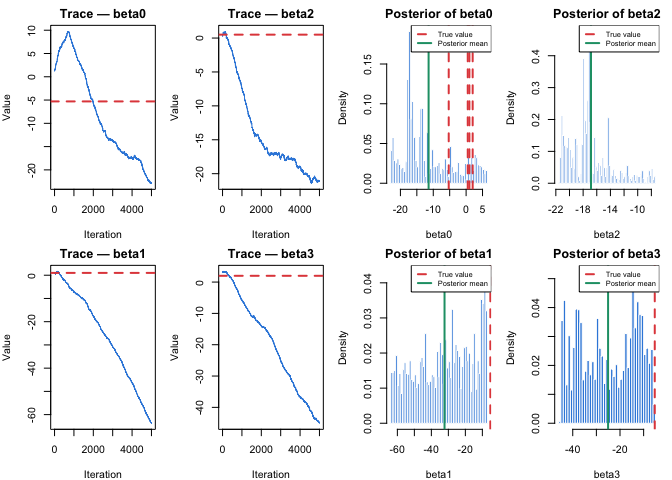
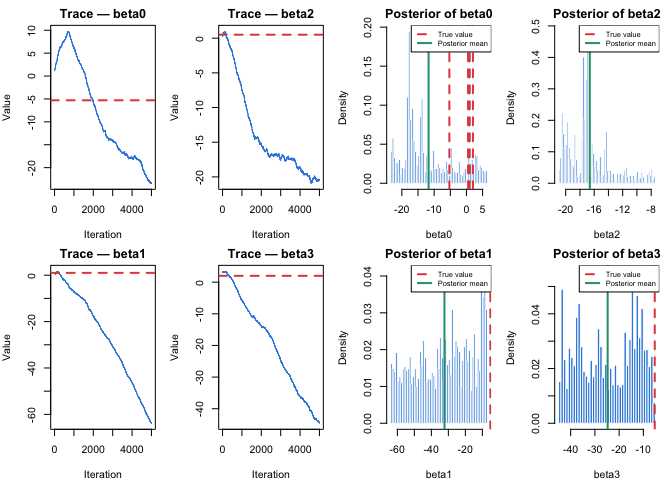
plot interp

diff --git a/wage_lab.md b/wage_lab.md
@@ -174,13 +174,13 @@ $$
   production and immigrates into more profitable ones — “the high price
   produces an excessive immigration, and the low price an excessive
   emigration” (Marx, 1849). When $sin\frac{2t\pi}{P}$ \> 0, capital
-  flight displaces workers, pushing labor surplus above the trend (Phase
-  3 — overproduction). When $sin\frac{2t\pi}{P}$ \< 0, capital
+  flight displaces workers, pushing labor surplus above the trend
+  (Overproduction Phase). When $sin\frac{2t\pi}{P}$ \< 0, capital
   immigration into new sectors temporarily absorbs workers, pulling
-  labor surplus below the trend (Phase 2 — recovery).The exponential
-  term $A e^{{-\delta_l}t}$ introduces amplitude modulation over time.
-  Rather than producing strictly shrinking cycles, the visualization
-  reveals heterogeneous cycle amplitudes — consistent with Marx’s
+  labor surplus below the trend (Recovery Phase).The exponential term
+  $A e^{{-\delta_l}t}$ introduces amplitude modulation over time. Rather
+  than producing strictly shrinking cycles, the visualization reveals
+  heterogeneous cycle amplitudes — consistent with Marx’s
   characterization of capital movement as anarchic rather than regular.
   No two cycles are identical, reflecting the unpredictable timing and
   magnitude of capital reallocation across sectors. The noise term
@@ -259,9 +259,9 @@ T_pilot <- 200
 K_l <- 1
 r_l <- .05
 t0_l  <- 50
-A <- .2
-P <- 5
-delta_l <- .43
+A <- .5
+P <- 20
+delta_l <- .1
 
 # wage_gap parameters
 K_w <- 1
@@ -302,20 +302,20 @@ labor_surplus <- func_labor_surplus(N_pilot, T_pilot)
 head(labor_surplus)
 ```
 
-    ##            [,1]       [,2]       [,3]       [,4]       [,5]       [,6]
-    ## [1,] 0.19196322 0.24714894 0.20170161 0.22465298 0.21029840 0.18325676
-    ## [2,] 0.12831483 0.15916664 0.10954535 0.13237144 0.11975818 0.11211928
-    ## [3,] 0.08587992 0.04940285 0.04201079 0.05403914 0.07180980 0.05434615
-    ## [4,] 0.05847272 0.06792644 0.05648572 0.02674120 0.08012128 0.05441905
-    ## [5,] 0.09793522 0.08706267 0.10876338 0.11115717 0.10087496 0.04436261
-    ## [6,] 0.14846486 0.10463862 0.08115263 0.10994888 0.11704565 0.13497503
-    ##            [,7]       [,8]       [,9]      [,10]
-    ## [1,] 0.21556973 0.18145037 0.19739227 0.17738545
-    ## [2,] 0.11776818 0.11961233 0.14604865 0.11982701
-    ## [3,] 0.07173624 0.06900272 0.04562580 0.05355927
-    ## [4,] 0.04210396 0.04842933 0.04518526 0.08219751
-    ## [5,] 0.10795426 0.09990176 0.06114187 0.12709855
-    ## [6,] 0.13609679 0.14006248 0.10997459 0.12055319
+    ##           [,1]      [,2]      [,3]      [,4]      [,5]      [,6]      [,7]
+    ## [1,] 0.2080341 0.2632198 0.2177725 0.2407239 0.2263693 0.1993276 0.2316406
+    ## [2,] 0.3191881 0.3500399 0.3004186 0.3232447 0.3106314 0.3029925 0.3086414
+    ## [3,] 0.4179072 0.3814301 0.3740381 0.3860664 0.4038371 0.3863734 0.4037635
+    ## [4,] 0.4112893 0.4207430 0.4093023 0.3795577 0.4329378 0.4072356 0.3949205
+    ## [5,] 0.4012005 0.3903280 0.4120287 0.4144225 0.4041403 0.3476279 0.4112196
+    ## [6,] 0.3950272 0.3512010 0.3277150 0.3565112 0.3636080 0.3815374 0.3826592
+    ##           [,8]      [,9]     [,10]
+    ## [1,] 0.1975213 0.2134632 0.1934563
+    ## [2,] 0.3104856 0.3369219 0.3107003
+    ## [3,] 0.4010300 0.3776531 0.3855866
+    ## [4,] 0.4012459 0.3980018 0.4350140
+    ## [5,] 0.4031671 0.3644072 0.4303639
+    ## [6,] 0.3866248 0.3565370 0.3671156
 
 ``` r
 func_wage_gap <- function(N, T, lab){
@@ -338,20 +338,20 @@ wage_gap <- func_wage_gap(N_pilot, T_pilot, labor_surplus)
 head(wage_gap)
 ```
 
-    ##              [,1]        [,2]         [,3]         [,4]         [,5]
-    ## [1,] 0.1455423289 0.145542329 0.1455423289 0.1455423289 0.1455423289
-    ## [2,] 0.0006704215 0.000135376 0.0005055557 0.0002599045 0.0003940441
-    ## [3,] 0.0046465507 0.001933961 0.0079072025 0.0041413392 0.0059221964
-    ## [4,] 0.0165507000 0.044647597 0.0543564714 0.0394263593 0.0243475722
-    ## [5,] 0.0370404840 0.028805036 0.0390395722 0.0842941217 0.0207684077
-    ## [6,] 0.0138673882 0.018511248 0.0103885169 0.0097446576 0.0128228115
-    ##             [,6]         [,7]         [,8]         [,9]       [,10]
-    ## [1,] 0.145542329 0.1455423289 0.1455423289 0.1455423289 0.145542329
-    ## [2,] 0.000862816 0.0003382043 0.0009091775 0.0005728145 0.001022810
-    ## [3,] 0.007352031 0.0062656155 0.0059467181 0.0028082360 0.005910659
-    ## [4,] 0.039102096 0.0243965410 0.0262861289 0.0493821876 0.039938387
-    ## [5,] 0.041228463 0.0569009758 0.0482545875 0.0525208464 0.019638459
-    ## [6,] 0.056370350 0.0106155291 0.0131597191 0.0365855432 0.006358015
+    ##              [,1]         [,2]         [,3]         [,4]         [,5]
+    ## [1,] 1.455423e-01 1.455423e-01 1.455423e-01 1.455423e-01 1.455423e-01
+    ## [2,] 4.207760e-04 8.494896e-05 3.172819e-04 1.630987e-04 2.472881e-04
+    ## [3,] 2.025963e-05 8.409528e-06 3.458935e-05 1.804771e-05 2.585462e-05
+    ## [4,] 1.543584e-06 4.286465e-06 5.272155e-06 3.764619e-06 2.288897e-06
+    ## [5,] 2.351501e-06 1.813171e-06 2.483568e-06 5.627511e-06 1.296566e-06
+    ## [6,] 3.908258e-06 5.241719e-06 2.917515e-06 2.734915e-06 3.610041e-06
+    ##              [,6]         [,7]         [,8]         [,9]        [,10]
+    ## [1,] 1.455423e-01 1.455423e-01 1.455423e-01 1.455423e-01 1.455423e-01
+    ## [2,] 5.415672e-04 2.122406e-04 5.706770e-04 3.595019e-04 6.420297e-04
+    ## [3,] 3.214289e-05 2.736330e-05 2.596231e-05 1.222184e-05 2.580395e-05
+    ## [4,] 3.732397e-06 2.293615e-06 2.476058e-06 4.764628e-06 3.815544e-06
+    ## [5,] 2.628805e-06 3.688403e-06 3.099517e-06 3.388739e-06 1.224611e-06
+    ## [6,] 1.660227e-05 2.981953e-06 3.706156e-06 1.055401e-05 1.778347e-06
 
 The logistic formula of the wage gap is deterministic given the growth
 rate $r_w$ and the time $t$. At $t=1$, $r_w = r_{base}$ because there is
@@ -421,18 +421,18 @@ head(CP_l)
 
     ##           [,1]      [,2]      [,3]      [,4]      [,5]      [,6]      [,7]
     ## [1,] 0.0000000 0.0000000 0.0000000 0.0000000 0.0000000 0.0000000 0.0000000
-    ## [2,] 0.1248738 0.1607726 0.1312087 0.1461388 0.1368010 0.1192102 0.1402301
-    ## [3,] 0.1647015 0.2081234 0.1566127 0.1811734 0.1668941 0.1504819 0.1678302
-    ## [4,] 0.1630055 0.1675232 0.1292064 0.1530079 0.1552791 0.1332425 0.1558402
-    ## [5,] 0.1440736 0.1531621 0.1207944 0.1169284 0.1531301 0.1220756 0.1287644
-    ## [6,] 0.1574289 0.1562684 0.1493294 0.1483718 0.1652326 0.1082695 0.1539877
+    ## [2,] 0.1353281 0.1712269 0.1416630 0.1565931 0.1472553 0.1296644 0.1506843
+    ## [3,] 0.2956669 0.3390888 0.2875781 0.3121388 0.2978595 0.2814473 0.2987956
+    ## [4,] 0.4641864 0.4687041 0.4303873 0.4541889 0.4564600 0.4344235 0.4570211
+    ## [5,] 0.5695049 0.5785934 0.5462257 0.5423597 0.5785614 0.5475069 0.5541957
+    ## [6,] 0.6314527 0.6302922 0.6233532 0.6223956 0.6392564 0.5822933 0.6280115
     ##           [,8]      [,9]     [,10]
     ## [1,] 0.0000000 0.0000000 0.0000000
-    ## [2,] 0.1180351 0.1284055 0.1153908
-    ## [3,] 0.1545918 0.1785349 0.1530114
-    ## [4,] 0.1454503 0.1458186 0.1343761
-    ## [5,] 0.1261205 0.1242497 0.1408831
-    ## [6,] 0.1470295 0.1205989 0.1743245
+    ## [2,] 0.1284894 0.1388597 0.1258451
+    ## [3,] 0.2855572 0.3095003 0.2839767
+    ## [4,] 0.4466312 0.4469995 0.4355570
+    ## [5,] 0.5515518 0.5496810 0.5663144
+    ## [6,] 0.6210533 0.5946227 0.6483483
 
 ``` r
 head(CP_w)
@@ -441,17 +441,17 @@ head(CP_w)
     ##            [,1]       [,2]       [,3]       [,4]       [,5]       [,6]
     ## [1,] 0.00000000 0.00000000 0.00000000 0.00000000 0.00000000 0.00000000
     ## [2,] 0.09467661 0.09467661 0.09467661 0.09467661 0.09467661 0.09467661
-    ## [3,] 0.06202411 0.06167606 0.06191686 0.06175707 0.06184432 0.06214926
-    ## [4,] 0.04336987 0.04137890 0.04542119 0.04286751 0.04408274 0.04521122
-    ## [5,] 0.03897888 0.05596102 0.06490628 0.05353291 0.04451454 0.05484658
-    ## [6,] 0.04945129 0.05514109 0.06761772 0.08965774 0.04246715 0.06249769
+    ## [3,] 0.06186171 0.06164326 0.06179439 0.06169409 0.06174886 0.06194029
+    ## [4,] 0.04025479 0.04010497 0.04022031 0.04014431 0.04018501 0.04031363
+    ## [5,] 0.02618711 0.02609144 0.02616711 0.02611669 0.02614221 0.02622681
+    ## [6,] 0.01703648 0.01697390 0.01702356 0.01699280 0.01700659 0.01706249
     ##            [,7]       [,8]       [,9]      [,10]
     ## [1,] 0.00000000 0.00000000 0.00000000 0.00000000
     ## [2,] 0.09467661 0.09467661 0.09467661 0.09467661
-    ## [3,] 0.06180800 0.06217942 0.06196062 0.06225334
-    ## [4,] 0.04428251 0.04431667 0.04213273 0.04434130
-    ## [5,] 0.04467634 0.04592777 0.05953128 0.05482470
-    ## [6,] 0.06607697 0.06126648 0.07289093 0.04843897
+    ## [3,] 0.06172606 0.06195923 0.06182185 0.06200564
+    ## [4,] 0.04017116 0.04032193 0.04022363 0.04035202
+    ## [5,] 0.02613320 0.02623139 0.02616894 0.02625184
+    ## [6,] 0.01700228 0.01706578 0.01702534 0.01707786
 
 - The identical wage gap at $t=2$ across all societies can be explain by
   the identical wage gap at $t=1$. At $t=2$, CP_w looks back one period,
@@ -570,14 +570,14 @@ cat("Effective sample size — labor surplus:",
     round(Tl_eff, 3), "\n")
 ```
 
-    ## Effective sample size — labor surplus: 5.27
+    ## Effective sample size — labor surplus: 5.269
 
 ``` r
 cat("Effective sample size — wage gap:",
     round(Tw_eff, 3), "\n")
 ```
 
-    ## Effective sample size — wage gap: 15.432
+    ## Effective sample size — wage gap: 15.436
 
 ``` r
 cat("Efficiency ratio — wage gap:", 
@@ -809,7 +809,7 @@ data.frame (
 
     ##   Simulation   N   T Total_crisis
     ## 1      Pilot  10 200         1328
-    ## 2      Final 389 200        51356
+    ## 2      Final 389 200        51367
 
 The substantial jump from 1328 to 51356 crises is an expected outcome
 rather than a anomaly; it directly reflects the roughly 39-fold scaling
@@ -832,7 +832,7 @@ for (t in 2:T_final) {
 }
 
 # --- control the x-axis range here ---
-x_min <-1       
+x_min <-1     
 x_max <-T_final        
 # ------------------------------------
 
@@ -911,22 +911,22 @@ summary(model)
     ## 
     ## Deviance Residuals: 
     ##     Min       1Q   Median       3Q      Max  
-    ## -3.0406  -0.1091   0.1552   0.1779   3.2501  
+    ## -3.0409  -0.1131   0.1551   0.1779   3.2499  
     ## 
     ## Coefficients:
     ##             Estimate Std. Error z value Pr(>|z|)    
-    ## (Intercept) -5.27659    0.15340 -34.397  < 2e-16 ***
-    ## CP_w         0.97390    0.12166   8.005  1.2e-15 ***
-    ## CP_l         0.40172    0.19683   2.041   0.0413 *  
-    ## CP_w:CP_l    2.06788    0.09875  20.940  < 2e-16 ***
+    ## (Intercept)  -5.2757     0.1643 -32.111  < 2e-16 ***
+    ## CP_w          0.9709     0.1238   7.840  4.5e-15 ***
+    ## CP_l          0.4115     0.2070   1.988   0.0468 *  
+    ## CP_w:CP_l     2.0643     0.1041  19.836  < 2e-16 ***
     ## ---
     ## Signif. codes:  0 '***' 0.001 '**' 0.01 '*' 0.05 '.' 0.1 ' ' 1
     ## 
     ## (Dispersion parameter for binomial family taken to be 1)
     ## 
-    ##     Null deviance: 99735  on 77799  degrees of freedom
-    ## Residual deviance: 16558  on 77796  degrees of freedom
-    ## AIC: 16566
+    ##     Null deviance: 99720  on 77799  degrees of freedom
+    ## Residual deviance: 16615  on 77796  degrees of freedom
+    ## AIC: 16623
     ## 
     ## Number of Fisher Scoring iterations: 7
 
@@ -976,10 +976,10 @@ data.frame(
 ```
 
     ##                true estimated_1 estimated_2
-    ## (Intercept) -5.2933  -5.2765871  -5.2756803
-    ## CP_w         1.0000   0.9738972   0.9737307
-    ## CP_l         0.5000   0.4017216   0.4007913
-    ## CP_w:CP_l    2.0000   2.0678817   2.0681868
+    ## (Intercept) -5.2933  -5.2756701  -5.2756283
+    ## CP_w         1.0000   0.9708903   0.9708655
+    ## CP_l         0.5000   0.4115181   0.4114584
+    ## CP_w:CP_l    2.0000   2.0642727   2.0643072
 
 The close alignment between the estimated and true parameters
 demonstrates that both models successfully recover the parameters
@@ -998,12 +998,11 @@ estimates.
 
 The previous simulations used a frequentist framework that assumes
 parameters are fixed values. However, because the goal of this project
-is to model the challenges of historical data — inspired by Marx’s Wage
-Labour and Capital, we use synthetic data that mimics the
-non-independence of historical data with the ARMA(1,q) structure of the
-observations. Because the data points are not truly independent, the
-Bayesian approach provides a more honest and accurate quantification of
-uncertainty.
+is to model the challenges of historical data, we use synthetic data
+that mimics the non-independence of historical data with the ARMA(1,q)
+structure of the observations. Because the data points are not truly
+independent, the Bayesian approach provides a more honest and accurate
+quantification of uncertainty.
 
 **1.Manual Metropolis Hasting** :
 
@@ -1127,6 +1126,15 @@ post_plot(mcmc_samples)
 par(mfrow = c(1, 1))
 ```
 
+- $\beta_0$ , $\beta_2$ : The chain drifts immediately from the true
+  value and stabilized in an incorrect plateau. This happens when the
+  posterior has multiple modes : a result of the multicollinearity
+  between $CP_W$ and $CP_L$ and the interaction term.
+- $\beta_1$, $\beta_3$: The chain is exploring but very inefficiently.
+  While convergence is eventually achieved, the inefficiency reflects
+  the difficulty of isotropic proposals in navigating the correlated
+  posterior geometry.
+
 **With Standardized observations:** To optimize the Metropolis-Hastings
 algorithm, the predictor matrix was standardized. Putting all variables
 on the same scale prevents numerical instability and symmetrizes the
@@ -1152,7 +1160,7 @@ set.seed(42)
 mcmc_std <- manual_metropolis_hasting(X_std, y_vec, n_iter = 5000, proposal_sd = .05, model_std)
 ```
 
-    ## Acceptance rate:  0.523
+    ## Acceptance rate:  0.522
 
 ``` r
 par(mfcol = c(2, 4), mar = c(4, 4, 2, 1))
@@ -1165,6 +1173,9 @@ post_plot(mcmc_std)
 ``` r
 par(mfrow = c(1, 1))
 ```
+
+- $\beta_0$ :
+- $\beta_1$, $\beta_2$, $\beta_3$ :
 
 The correlation between $CP_W$ and $CP_L$ , exacerbated by their
 interaction term, results in **extreme multicollinearity.** The
@@ -1213,7 +1224,7 @@ set.seed(42)
 mnp_samples <- multivariate_normal_proposal(X, y_vec, n_iter = 5000, proposal_sd = .05, model)
 ```
 
-    ## Acceptance rate:  0.689
+    ## Acceptance rate:  0.698
 
 ``` r
 par(mfcol = c(2, 4), mar = c(4, 4, 2, 1))
@@ -1227,11 +1238,16 @@ post_plot(mnp_samples)
 par(mfrow = c(1, 1))
 ```
 
+- $\beta_0$ :
+- $\beta_1$ :
+- $\beta_2$ :
+- $\beta_3$ :
+
 ``` r
 mnp_std <- multivariate_normal_proposal(X_std, y_vec, n_iter = 5000, proposal_sd = .05, model_std)
 ```
 
-    ## Acceptance rate:  0.777
+    ## Acceptance rate:  0.752
 
 ``` r
 par(mfcol = c(2, 4), mar = c(4, 4, 2, 1))
@@ -1244,6 +1260,11 @@ post_plot(mnp_std)
 ``` r
 par(mfrow = c(1, 1))
 ```
+
+- $\beta_0$ :
+- $\beta_1$ :
+- $\beta_2$ :
+- $\beta_3$ :
 
 **R-hat computation for the Manual Metropolis Hasting :**
 
@@ -1355,10 +1376,10 @@ data.frame(
 ```
 
     ##   parameters    rhat1    rhat2    rhat3    rhat4
-    ## 1      beta0 2.179487 3.811691 3.593542 3.185626
-    ## 2      beta1 1.236316 3.534859 3.651831 3.876447
-    ## 3      beta2 1.029766 2.398305 3.631189 3.151607
-    ## 4      beta3 2.173697 3.669222 3.669219 2.846875
+    ## 1      beta0 2.169829 3.853452 3.501115 1.279569
+    ## 2      beta1 1.281464 3.529730 2.744399 2.025436
+    ## 3      beta2 1.030176 2.329562 3.634332 3.118935
+    ## 4      beta3 2.040359 3.652906 3.443001 2.665755
 
 ``` r
 bayesian_model <- brm(
@@ -1393,6 +1414,10 @@ plot(bayesian_model)
 
 ![](wage_lab_files/figure-gfm/unnamed-chunk-51-1.png)<!-- -->
 
+**Trace plot:** The chain crosses the true value frequently and stays
+centered around it for all parameters $\beta_0$ , $\beta_1$ , $\beta_2$
+, $\beta_3$
+
 ``` r
 summary_bayesian <- summary(bayesian_model)
 rhat <- summary_bayesian$fixed[, "Rhat"]
@@ -1410,10 +1435,10 @@ data.frame(
 ```
 
     ##   parameters rhat_mh_1 rhat_mh_2 rhat_mh_3 rhat_mh_4 rhat_hmc
-    ## 1      beta0  2.179487  3.811691  3.593542  3.185626 1.000804
-    ## 2      beta1  1.236316  3.534859  3.651831  3.876447 1.002303
-    ## 3      beta2  1.029766  2.398305  3.631189  3.151607 1.000326
-    ## 4      beta3  2.173697  3.669222  3.669219  2.846875 1.000534
+    ## 1      beta0  2.169829  3.853452  3.501115  1.279569 1.003090
+    ## 2      beta1  1.281464  3.529730  2.744399  2.025436 1.004250
+    ## 3      beta2  1.030176  2.329562  3.634332  3.118935 1.001756
+    ## 4      beta3  2.040359  3.652906  3.443001  2.665755 1.004215
 
 All parameters achieved $\hat{R} \approx 1$ with the Hamiltonian Monte
 Carlo algorithm, confirming convergence across the four chains. In
